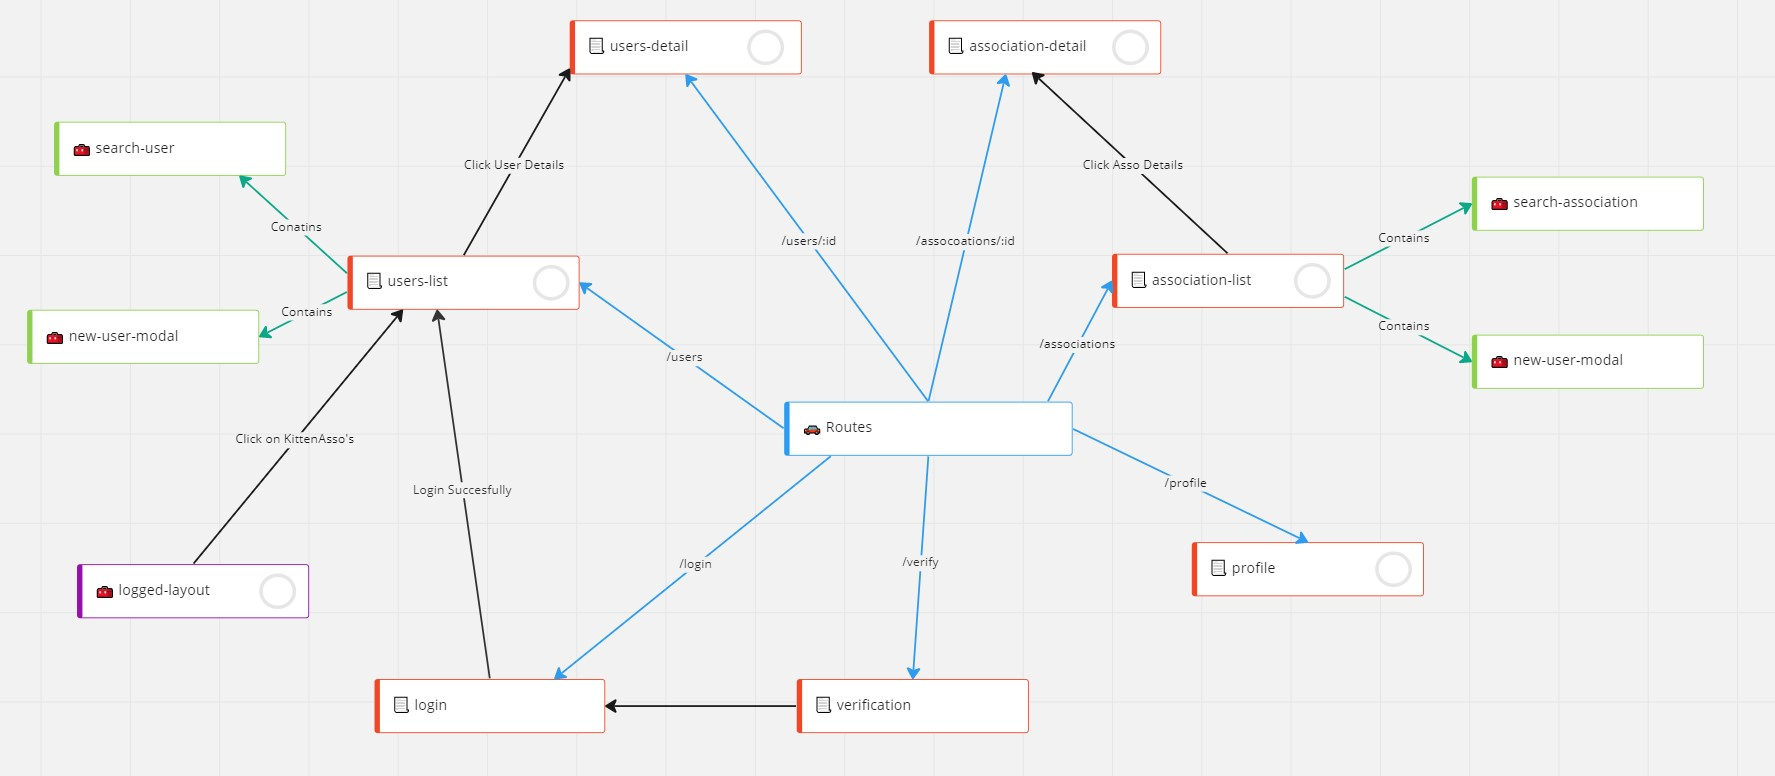
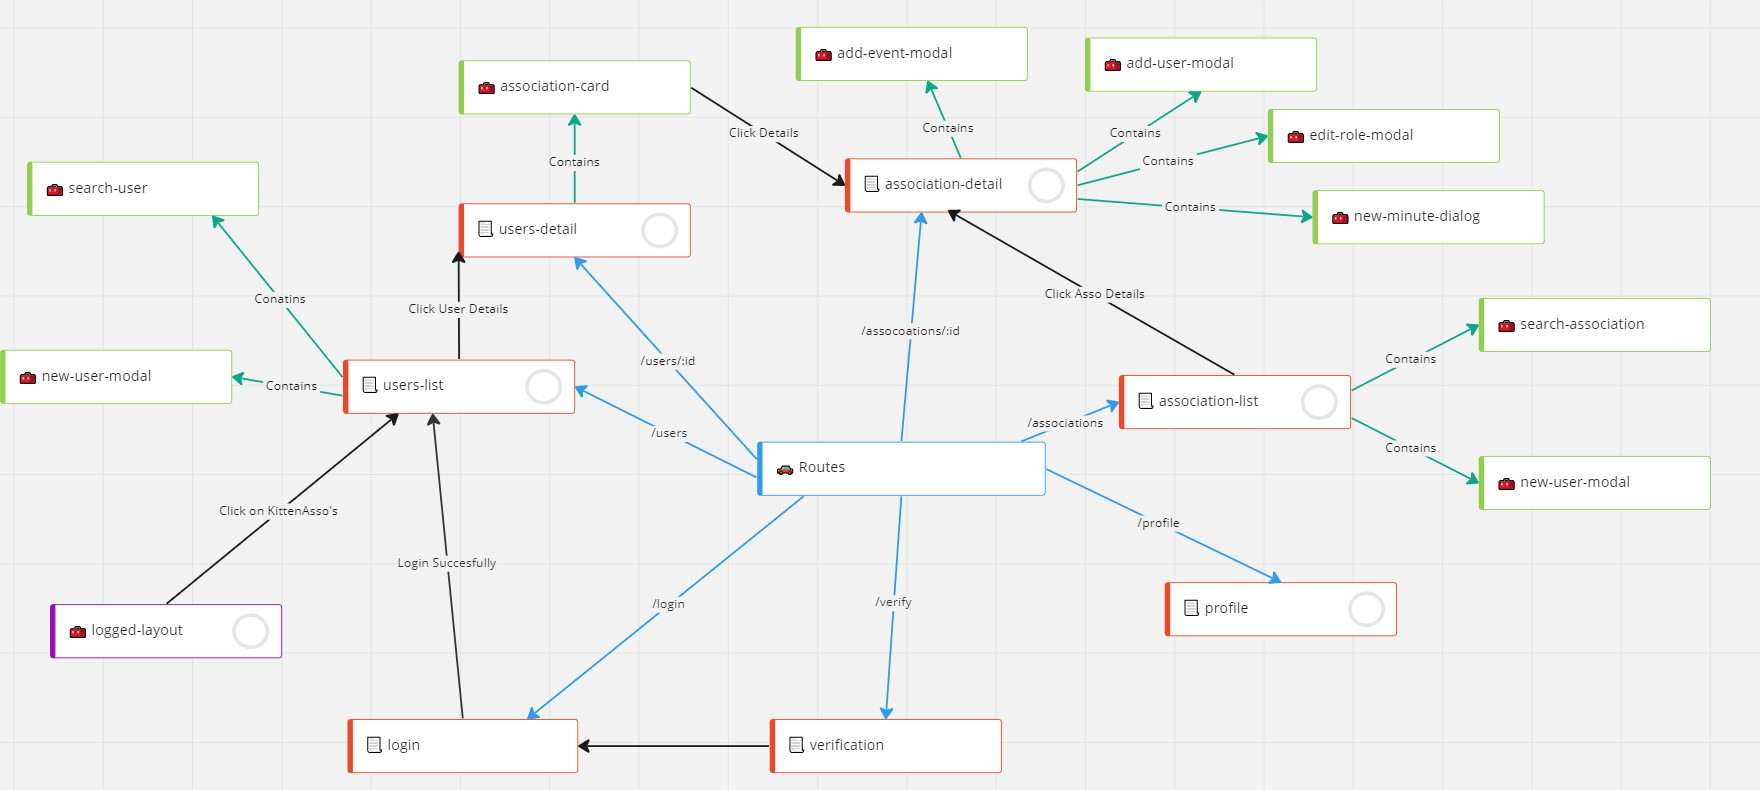
docs: readme body part2. + images.

diff --git a/README.md b/README.md
@@ -142,3 +142,106 @@ The form contains fields for the user's first name, last name, email address, ag
 > 
 > 🧰 Components :
 > - **main :** user-profile
+> - (1) logged-layout
+
+![User Profile](docs/user-profile.jpg)
+
+The user profile page displays information about the current user who is logged in. This information is presented in a form that allows the user to edit any of their data and save the changes by clicking on the "Update my profile" button.
+
+#### User Details :
+
+> 🚗 Routes :
+> - /users/:id
+> 
+> 🧰 Components :
+> - **main :** user-details
+> - (1) logged-layout
+> - (2) association-card
+
+![User Details](docs/user-detail.jpg)
+
+The user details page displays information about a specific user, including their first name, last name, and age. 
+The page also displays a list of all associations that the user is a member of. 
+Each association is displayed using an "association-card" component, which includes a button to view more details about the association on the association detail page.
+
+#### Associations Home :
+
+> 🚗 Routes :
+> - /associations
+> 
+> 🧰 Components :
+> - **main :** association-list
+> - (1) search-association
+> - (2) logged-layout
+> 
+> 📌 Dialogs :
+> - new-association-dialog
+
+![Assos List](docs/associations-list.jpg)
+
+The associations details page displays a list of all associations, along with specific information such as the name and list of members for each association. 
+You can click on the details button for each association to view more information on the association details page. 
+The page also includes a search bar component called "search-association" which allows you to search for an association using a specific ID. 
+Additionally, there is a "New association" button above the list that will open a dialog for creating a new association.
+
+#### Create Association Dialog :
+
+![Create User Modal](docs/new-asso.gif)
+
+The create association dialog is a component that is displayed in a dialog when the user clicks on the "New association" button on the associations list page.
+It contains a form divided into 4 steps for creating a new association.
+The form contains field for the association's name. 
+You can then add custom role. For the third step, you can add members by searching for their id. The final step is a recap.
+
+#### Association Details :
+
+> 🚗 Routes :
+> - /associations/:id
+>
+> 🧰 Components :
+> - **main :** association-detail
+> - (1) logged-layout
+>
+> 📌 Dialogs & Modals :
+> - add-event-modal
+> - add-user-modal
+> - add-role-modal
+> - new-minute-dialog
+
+![Asso Detail](docs/asso-detail.jpg)
+
+The association details page displays information about a specific association, including its name and lists of members, minutes, and events. 
+For each member, you have the option to edit their role or remove them from the association. 
+You can also view, remove, and add minutes using the "New" button, which will open the "new-minute-dialog" dialog. Similarly, you can view, remove, and add events using the "Add" button, which will open the "add-event-modal" modal.
+
+#### Add Event Modal :
+
+![Add Event Modal](docs/create-event.jpg)
+
+The add event modal is a component that is displayed in a modal when the user clicks on the "Add" button on the association details page.
+It contains a form for creating a new event.
+The form contains fields for the event's name, start and end date and time.
+
+#### Add User Modal :
+
+![Add User Modal](docs/add-member.jpg)
+
+The add user modal is a component that is displayed in a modal when the user clicks on the "Add" button on the association details page.
+It contains a search bar for searching for a user by ID.
+When the user is found, the form will display the user's first name, last name and its status : already in the association, not found, available to add.
+You can also specify the role of the new member.
+
+#### Add Role Modal :
+
+![Add Role Modal](docs/changerole.jpg)
+
+This modal displays a simple text input to change the role of a member.
+
+#### New Minute Dialog :
+
+![New Minute Dialog](docs/create-minute.jpg)
+
+The new minute dialog is a component that is displayed in a dialog when the user clicks on the "New" button on the association details page.
+It contains a form for creating a new minute.
+The form contains fields for the minute's content and date.
+You can also select voters members for the minute.
